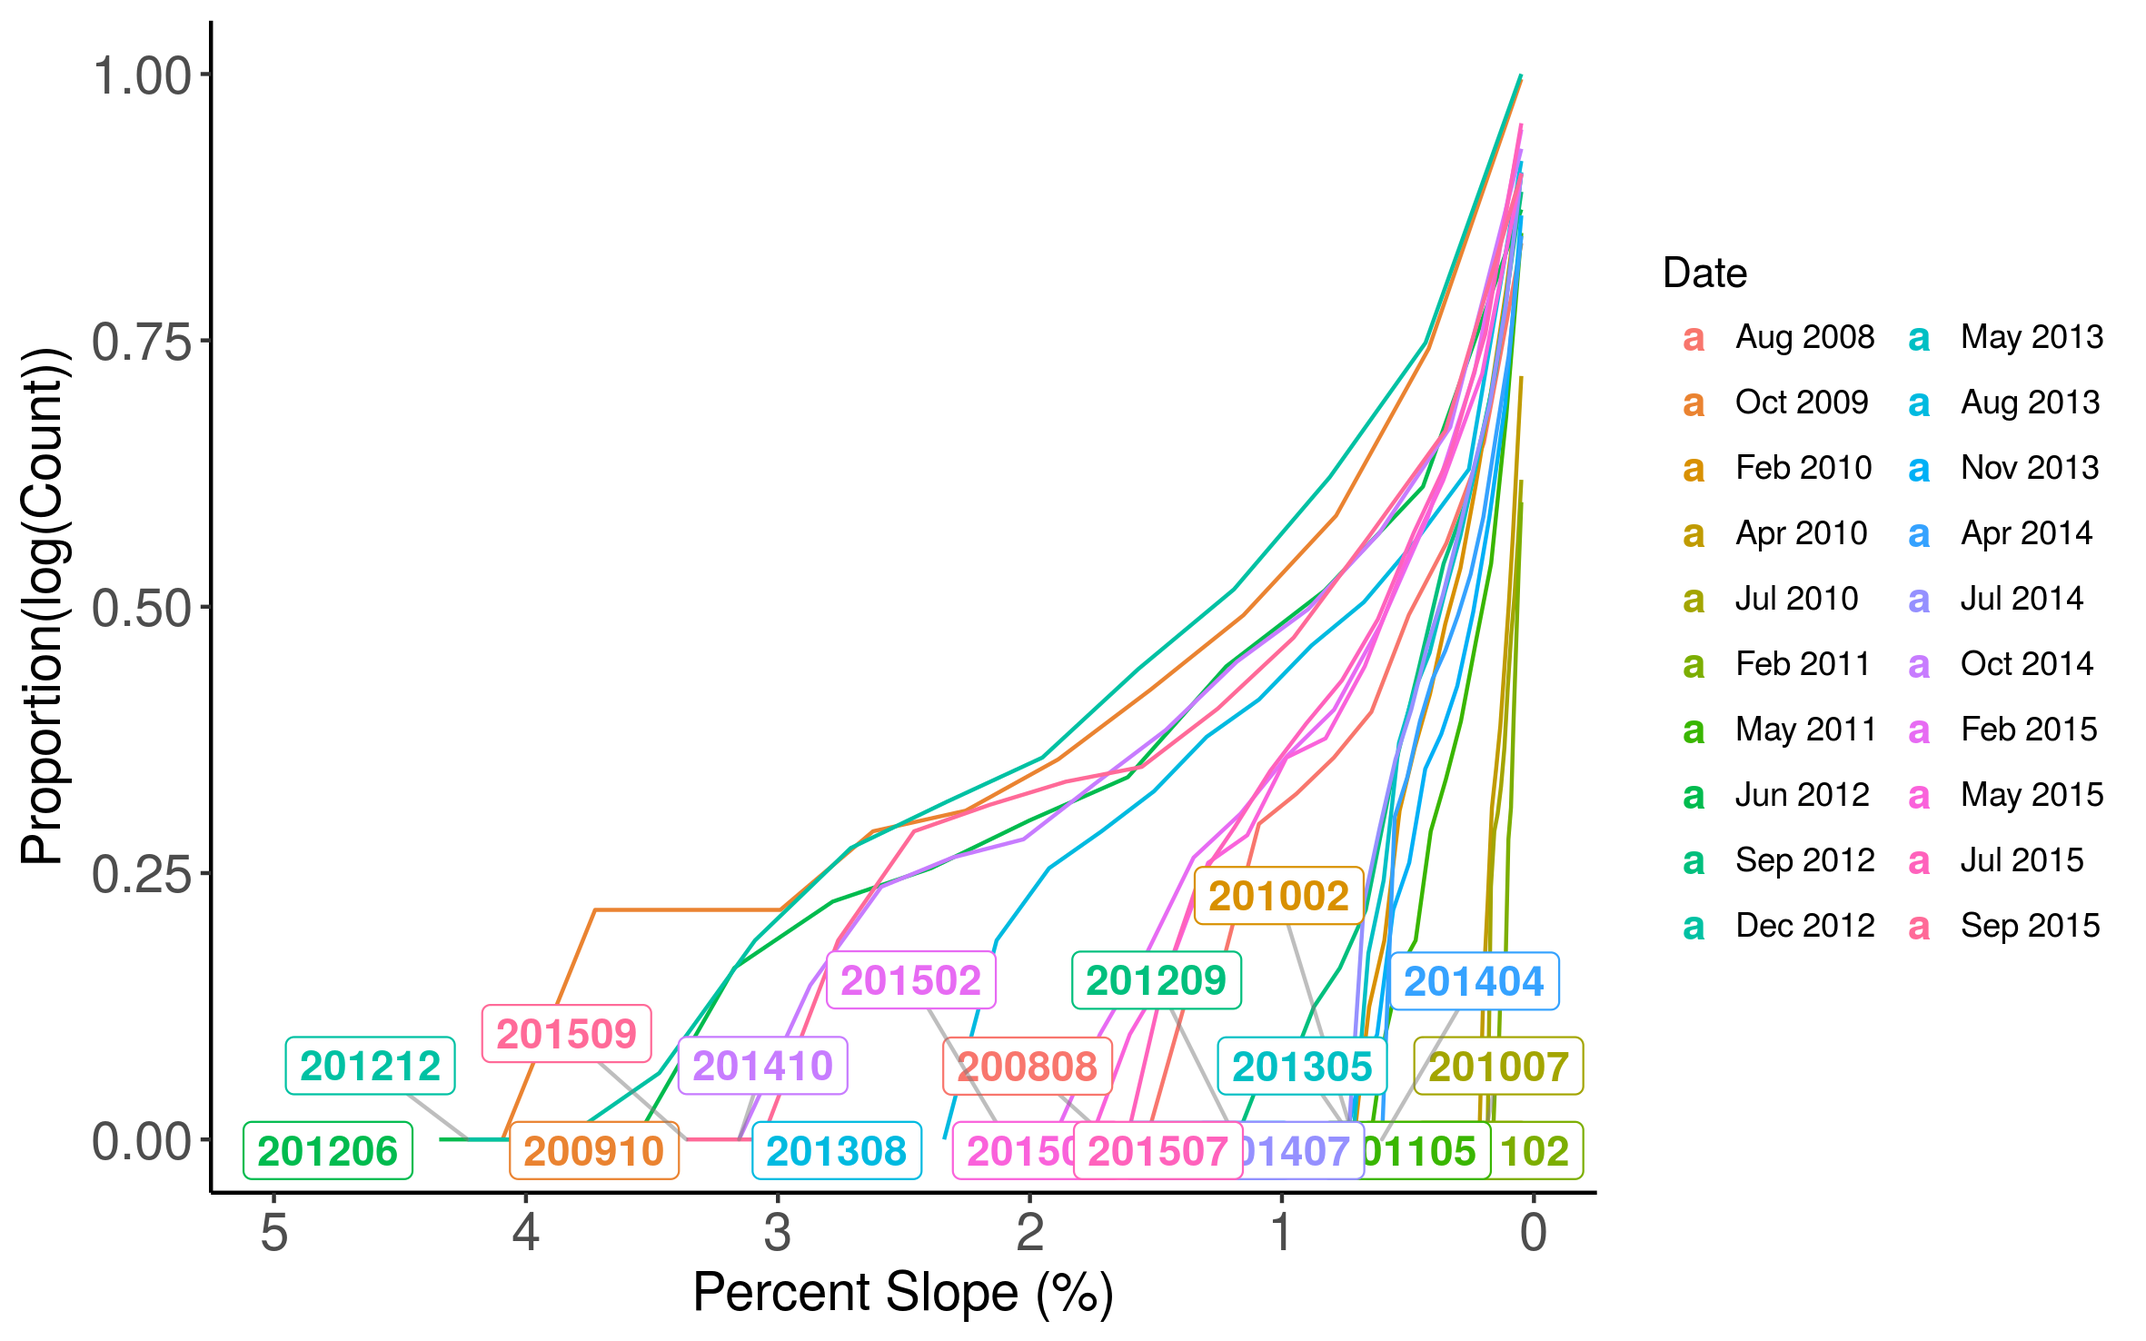
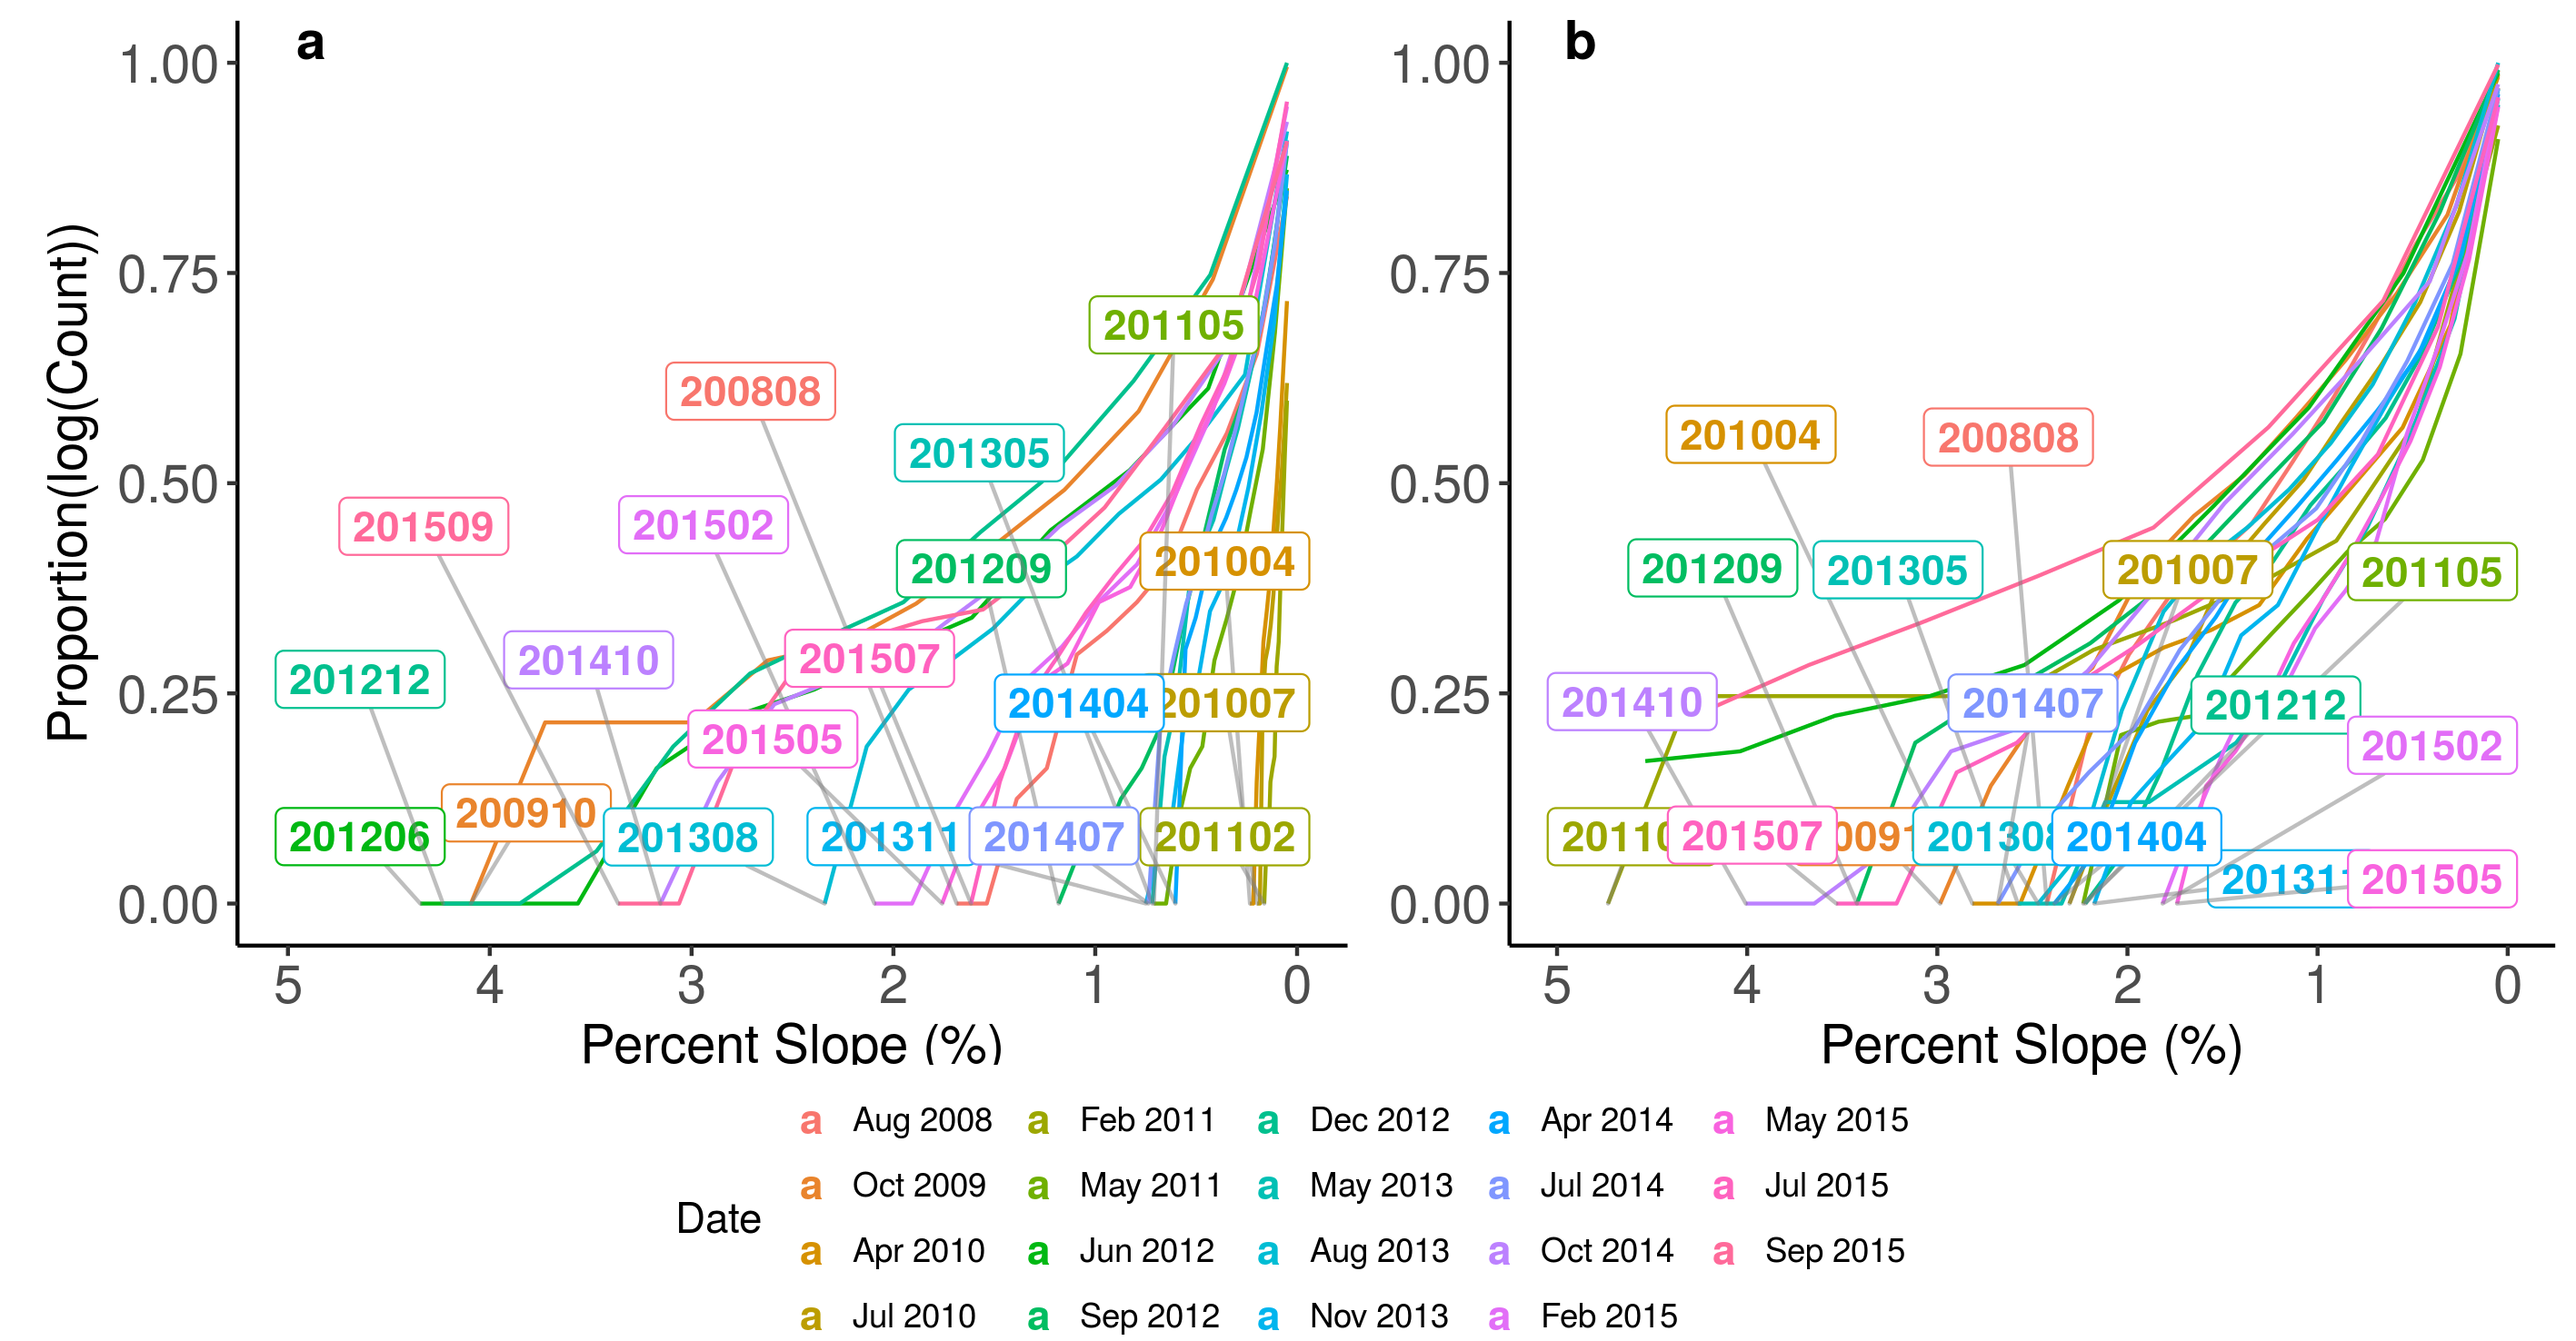
close out reveiwer 3 comments

diff --git a/manuscripts/est_coast/dataflowchl.tex b/manuscripts/est_coast/dataflowchl.tex
@@ -153,7 +153,7 @@ The longer-term record indicates that there was distinct zonation of the chlorop
 
 Past observations of a decreasing west to east chlorophyll gradient in the long-term grab sample dataset (Figure 2) are supported by the high resolution chlorophyll maps from Dataflow analysis (Figure 5). Like the discrete grab samples, the chlorophyll maps show lower concentrations in the eastern Bay relative to the central Bay or the Barnes Sound regions. The magnitude and extent of the large central Bay chlorophyll peak measured from the long-term grab samples in late 2012 is evident in the chlorophyll map from December 2012 (Figure 5). 
 
-The maps also reveal important details about the location and severity of water quality boundaries between adjacent sub-basins of the Bay. Contrary to our expectation, we did not find the presence of severe water quality boundaries between the central and eastern Bay. Instead, with the exception of July 2015, this boundary was diffuse. We did, however, observe a consistently severe boundary between the Seven Palm chain-of-lakes (Seven Palm Lake, Monroe Lake, Terrapin Bay) and the central Bay (Figure 5). The most severe chlorophyll boundaries were observed in 2012 and 2009 during periods of exceptionally high chlorophyll concentrations (Figure 2, 5, 6). 
+The maps also reveal important details about the location and severity of water quality boundaries between adjacent sub-basins of the Bay. Contrary to our expectation, we did not find the presence of severe water quality boundaries between the central and eastern Bay. Instead, with the exception of July 2015, this boundary was diffuse. We did, however, observe a consistently severe boundary between the Seven Palm chain-of-lakes (Seven Palm Lake, Monroe Lake, Terrapin Bay) and the central Bay (Figure 5). In general, chlorophyll boundaries were less severe that salinity boundaries (Figure 4, 5, 6). The most severe chlorophyll boundaries were observed in 2012 and 2009 during periods of exceptionally high chlorophyll concentrations (Figure 2, 5, 6). 
 
 Our chlorophyll maps cover a larger area than the footprint of the long-term grab sampling network. As a result, they convey additional information about chlorophyll in the embayments and lakes on the northern boundary of Florida Bay. For example, the maps show that the northeastern and eastern edges of Barnes Sound were sites of elevated chlorophyll in 2014 and 2015. Another notable area is the Seven Palm chain-of-lakes where chlorophyll was as high as 20 \si{\micro\gram\per\liter} (Figure 3, 5). Other sites outside the scope of the long-term grab sampling network where the Dataflow mapping detected elevated chlorophyll include Taylor River and Joe Bay where maximum concentrations were between 4 and 7 \si{\micro\gram\per\liter}. 
 
@@ -164,7 +164,7 @@ We gained additional insight into the nature of elevated chlorophyll through the
 \section{Discussion}
 \label{discussion}
 
-We show that spatially explicit mapping is an important supplement for understanding spatial chlorophyll variability. For example, the location and severity of water quality boundaries was not recoverable from strictly discrete data (Figure 2). Although we were able to identify boundaries from our mapping results, we did not observe severe and persistent boundaries separating individual sub-basins. Contrary to our hypothesis, boundaries were either diffuse or limited to the transition between upstream saline lakes and downstream basins in the open Bay (Figure 5). The timing of these severe water quality boundaries was related to the overall magnitude of chlorophyll concentrations as well as climatic variation (Figure 2c, 6). We did not observe consistently severe water quality boundaries between central and eastern Florida Bay. Instead, this feature was limited to the last two surveys of the study period (Figure 5).
+We show that spatially explicit mapping is an important supplement for understanding spatial chlorophyll variability. For example, the location and severity of water quality boundaries was not recoverable from strictly discrete data (Figure 2). Although we were able to identify boundaries from our mapping results, we did not observe severe and persistent boundaries separating individual sub-basins. Contrary to our hypothesis, boundaries were either diffuse or limited to the transition between upstream saline lakes and downstream basins in the open Bay (Figure 5). The timing of these severe water quality boundaries was related to the overall magnitude of chlorophyll concentrations which was related in turn to climatic variation (Figure 2c, 6). Also, contrary to our hypothesis, we did not observe consistently severe water quality boundaries between central and eastern Florida Bay. Instead, this feature was limited to the last two surveys of the study period (Figure 5). The fact that we observed clear differences between the severity of chlorophyll and salinity boundaries suggests that phytoplankton dynamics are not simply a result of watershed export but rather a more complex set of factors such as hydrodynamic circulation and benthic-pelagic coupling \citep[Figure 6, ][]{zhang_2014, lawrence2004wind}. 
 
 \subsection{Phytoplankton abundance and environmental drivers}
 \label{phytoabund}
@@ -181,7 +181,7 @@ Our spatially explicit chlorophyll maps revealed elevated chlorophyll concentrat
 \subsection{Relative Importance of Optical Parameters}
 \label{optical}
 
-Our process for resolving spatially explicit fine-scale chlorophyll dynamics revealed several key insights for estimating chlorophyll concentrations by optical means. One key insight was that models fit with only chlorophyll fluorescence data performed poorly relative to those that also considered other factors (e.g. phytopigments, CDOM). We suspect that variation in the physiological condition of the phytoplankton community as well as abundance of non-chlorophyll compounds contributed to poor fit \citep{proctor2010new}. For example, we found that in many cases florescence readings from either the primary or secondary Dataflow chlorophyll probes were not retained by our variable selection procedure (Table 2). In these instances, phycocyanin was often an important fluorescence parameter. This makes sense given that algal blooms in Florida Bay are often composed of the phycocyanin-containing cyanobacteria Synechococcus \citep{phlips_blooms_1999}. The fact that phycocyanin and chlorophyll were rarely selected in the same survey suggests the abundance of cyanobacteria and other phytoplankton are regulated by competitive exclusion \citep{passarge2006competition}. Phycocyanin fluorescence was particuarly important in 2013 and 2015 when chlorophyll concentrations in the central Bay were high relative to other areas of the Bay (Figure 2). This area has limited hydrologic connection \citep{lee2016circulation} to the eastern Bay and phytoplankton here are more likely to be nitrogen limited given our observation of lower N:P ratios (Figure 7). Another key insight was the importance of incorporating CDOM measurements in the process of estimating phytoplankton abundance. In particular, we found that CDOM measurements were important for modelling phytoplankton abundance in the saline lakes upstream of the Bay where we observed high CDOM flouresence (Figure 6). This gave us some ability to account for CDOM interference given that CDOM is known to interfere with the performance of optical chlorophyll probes \citep{proctor2010new}. The reason that CDOM was selected as an important variable only in the dry season is unknown. One clue is that CDOM was almost always selected in the same survey as in vivo chla. This suggests that CDOM in these instances is microbially derived from local sources rather than from terrestrial runoff \citep{maie2012application}.
+Our process for resolving spatially explicit fine-scale chlorophyll dynamics revealed several key insights for estimating chlorophyll concentrations by optical means. One key insight was that models fit with only chlorophyll fluorescence data performed poorly relative to those that also considered other factors (e.g. phytopigments, CDOM). We suspect that variation in the physiological condition of the phytoplankton community as well as abundance of non-chlorophyll compounds contributed to poor fit \citep{proctor2010new}. For example, we found that in many cases florescence readings from either the primary or secondary Dataflow chlorophyll probes were not retained by our variable selection procedure (Table 2). In these instances, phycocyanin was often an important fluorescence parameter. This makes sense given that algal blooms in Florida Bay are often composed of the phycocyanin-containing cyanobacteria Synechococcus \citep{phlips_blooms_1999}. The fact that phycocyanin and chlorophyll were rarely selected in the same survey suggests the abundance of cyanobacteria and other phytoplankton are regulated by competitive exclusion \citep{passarge2006competition}. Phycocyanin fluorescence was particuarly important in 2013 and 2015 when chlorophyll concentrations in the central Bay were high relative to other areas of the Bay (Figure 2). This area has limited hydrologic connection \citep{lee2016circulation} to the eastern Bay and phytoplankton here are more likely to be nitrogen limited given our observation of lower N:P ratios (Figure 7). Another key insight was the importance of incorporating CDOM measurements in the process of estimating phytoplankton abundance. In particular, we found that CDOM measurements were important for modelling phytoplankton abundance in the saline lakes upstream of the Bay where we observed high CDOM flouresence (Figure 7). This gave us some ability to account for CDOM interference given that CDOM is known to interfere with the performance of optical chlorophyll probes \citep{proctor2010new}. The reason that CDOM was selected as an important variable only in the dry season is unknown. One clue is that CDOM was almost always selected in the same survey as in vivo chla. This suggests that CDOM in these instances is microbially derived from local sources rather than from terrestrial runoff \citep{maie2012application}.
 
 Our mapping technique resolved critical details about the spatial variability of chlorophyll in Florida Bay. It is important to note that our approach provides a fundamentally different data product than previous efforts involving spatial interpolation of coarse grab sampling networks \citep{fourqurean1993process}. In addition to the higher measurement density afforded by Dataflow, our interpolation method honors barriers to flow in the landscape \citep{stachelek_application_2015}. This has the potential to preserve intense water quality gradients among adjacent Florida Bay basins allowing them to be characterized and tracked over time. For example, our finding of severe boundaries between saline lakes and the open bay would not be recoverable from an analysis performed on strictly discrete data. In particular, it is likely that discrete sampling occurs on a scale which is too coarse to resolve the effects of individual water management actions (e.g. control structure operation).
 
@@ -283,8 +283,8 @@ Our mapping technique resolved critical details about the spatial variability of
 
 \begin{figure*}
   \centering
-  \includegraphics[width=0.75\textwidth]{../../figures/boundaries.png}
-  \caption{Cumulative distribution of chlorophyll boundaries for each survey.}
+  \includegraphics[width=0.85\textwidth]{../../figures/boundaries.png}
+  \caption{Cumulative distribution of a) chlorophyll and b) salinity boundaries for each survey.}
   \label{fig:6}
 \end{figure*}
 
